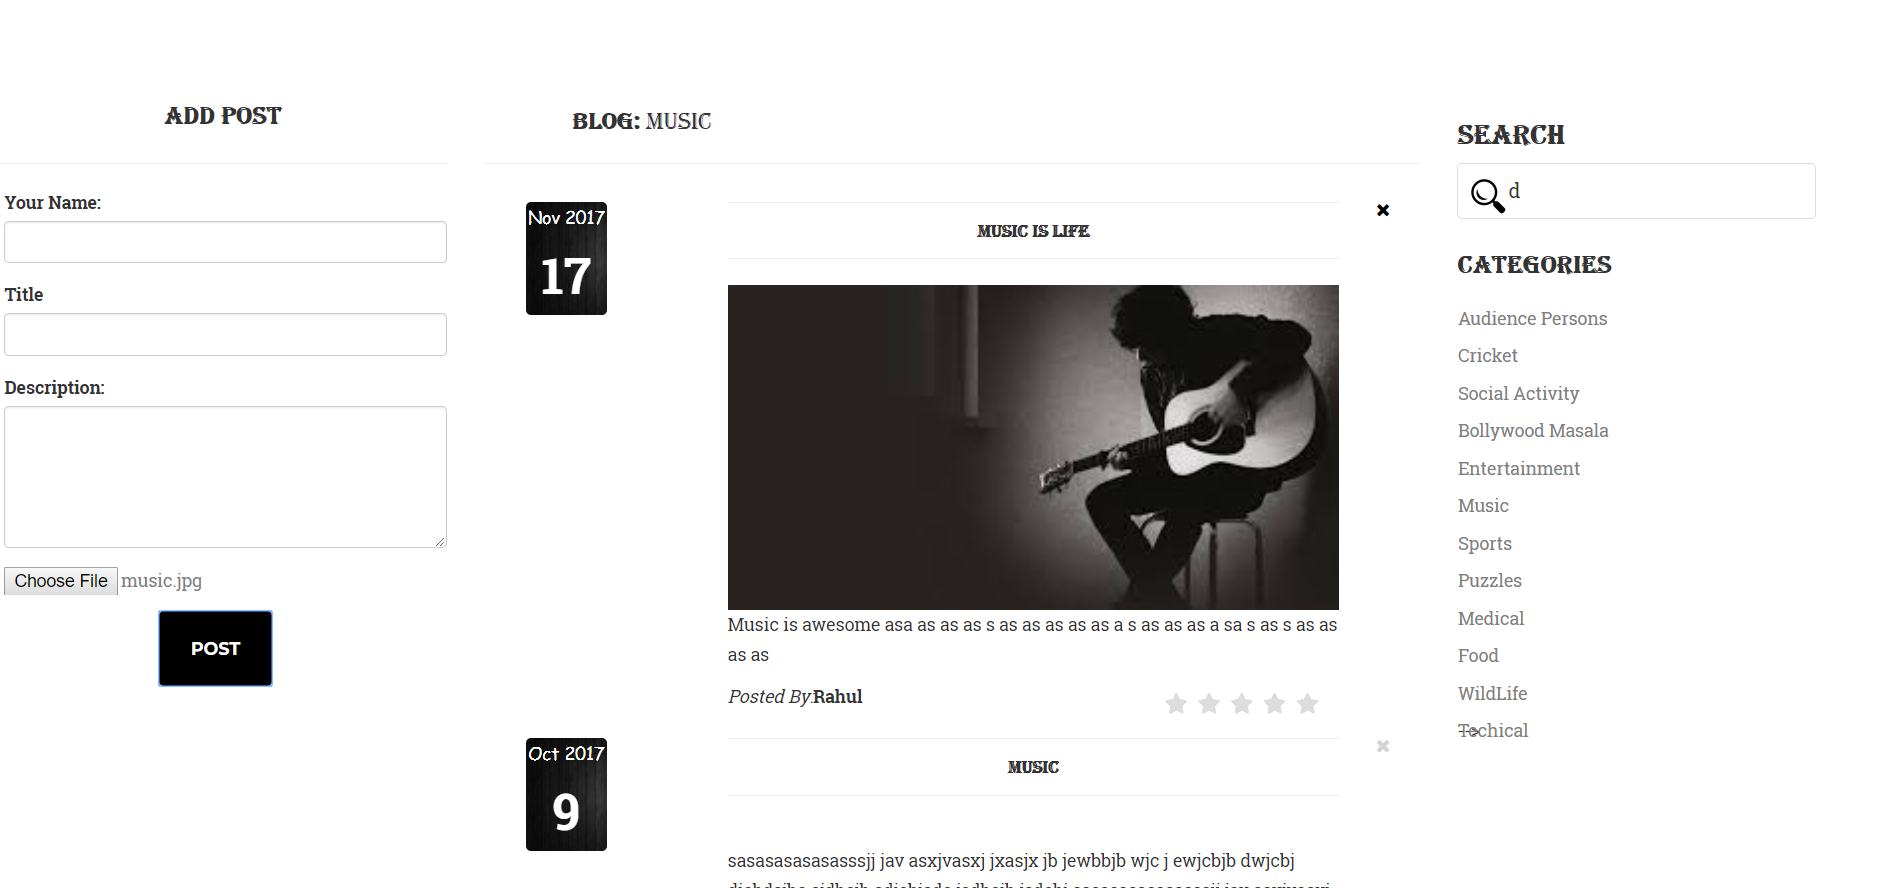
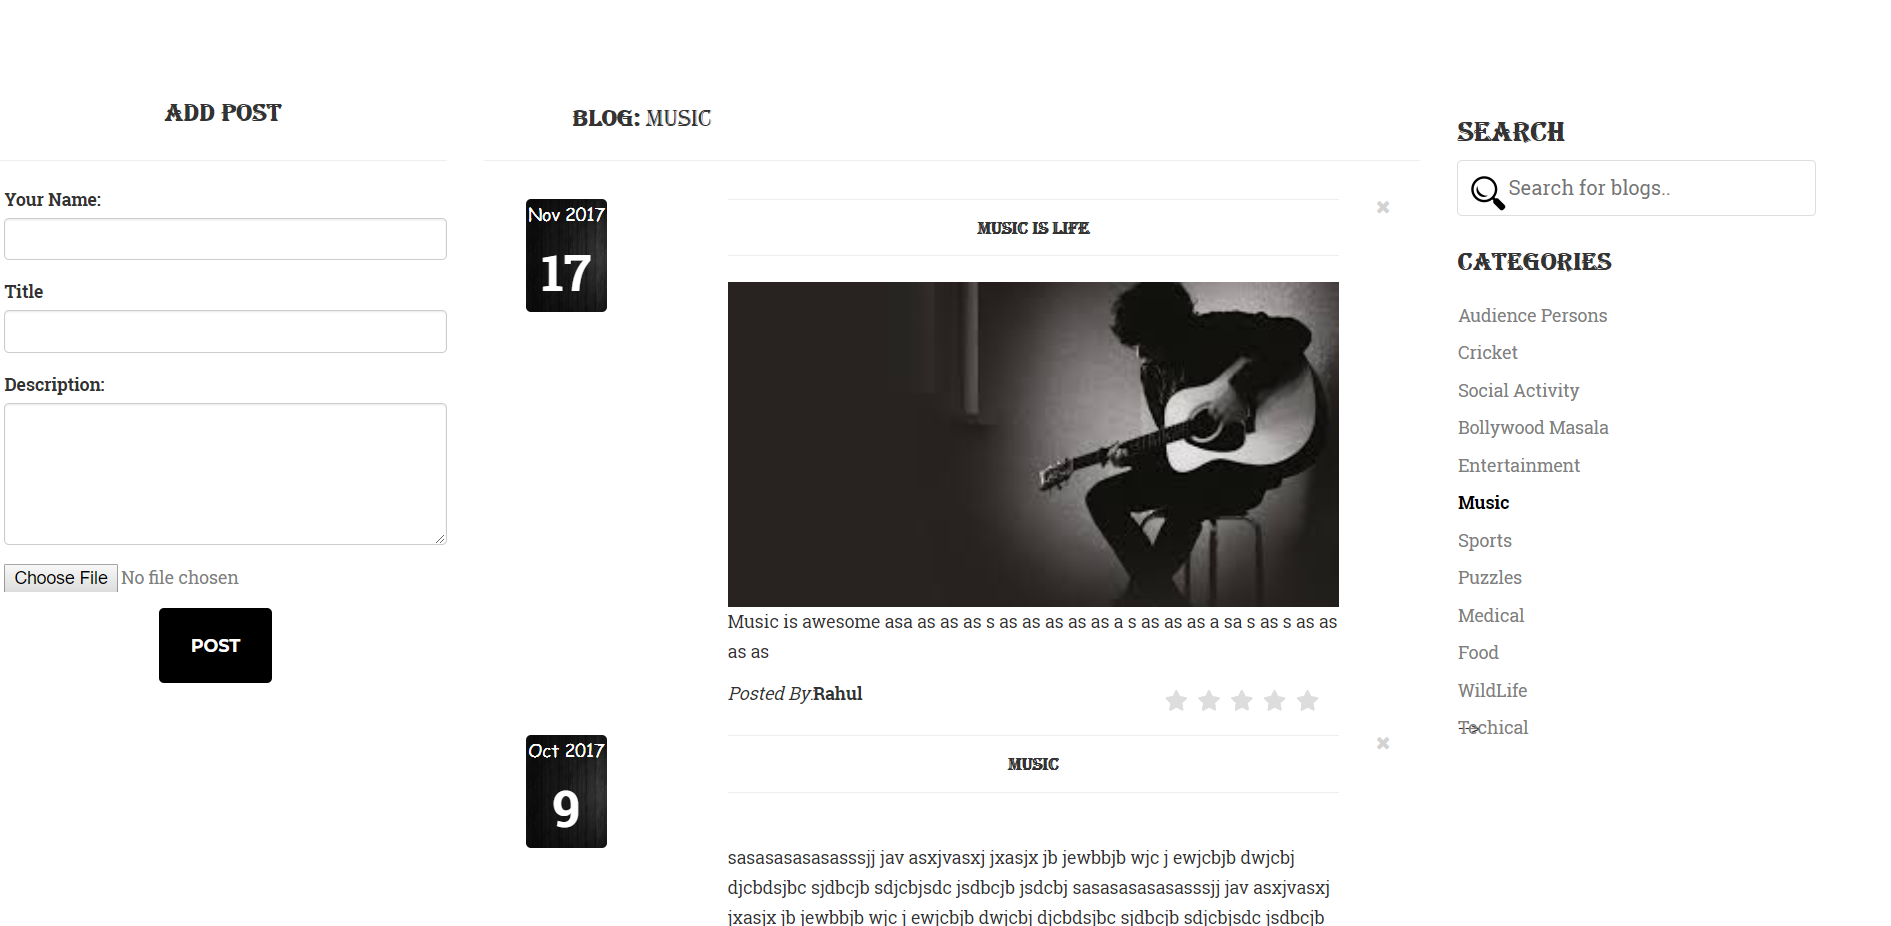
second commit

diff --git a/src/app/mid/mid.component.html b/src/app/mid/mid.component.html
@@ -14,7 +14,7 @@
     <input type="text" id="myInput"  placeholder="Search for blogs.." title="Type in a name" (keyup)="search(srch.value)" #srch>
     <p class="categories">CATEGORIES</p>-->
     <ul class="listcat">
-    <li class="catlist" *ngFor="let item of categoryItems" [ngClass]="{catselect:item==selected}">
+    <li class="catlist" *ngFor="let item of categoryItems" [ngClass]="{catselect:item.item==selected}">
       <app-category [categoryItem]="item"  (click)="select(item.item)"></app-category>
     </li>
     </ul>

diff --git a/src/app/mid/mid.component.css b/src/app/mid/mid.component.css
@@ -49,4 +49,5 @@
 }
 .catselect{
   color:black;
+  font-weight: 800;
 }
